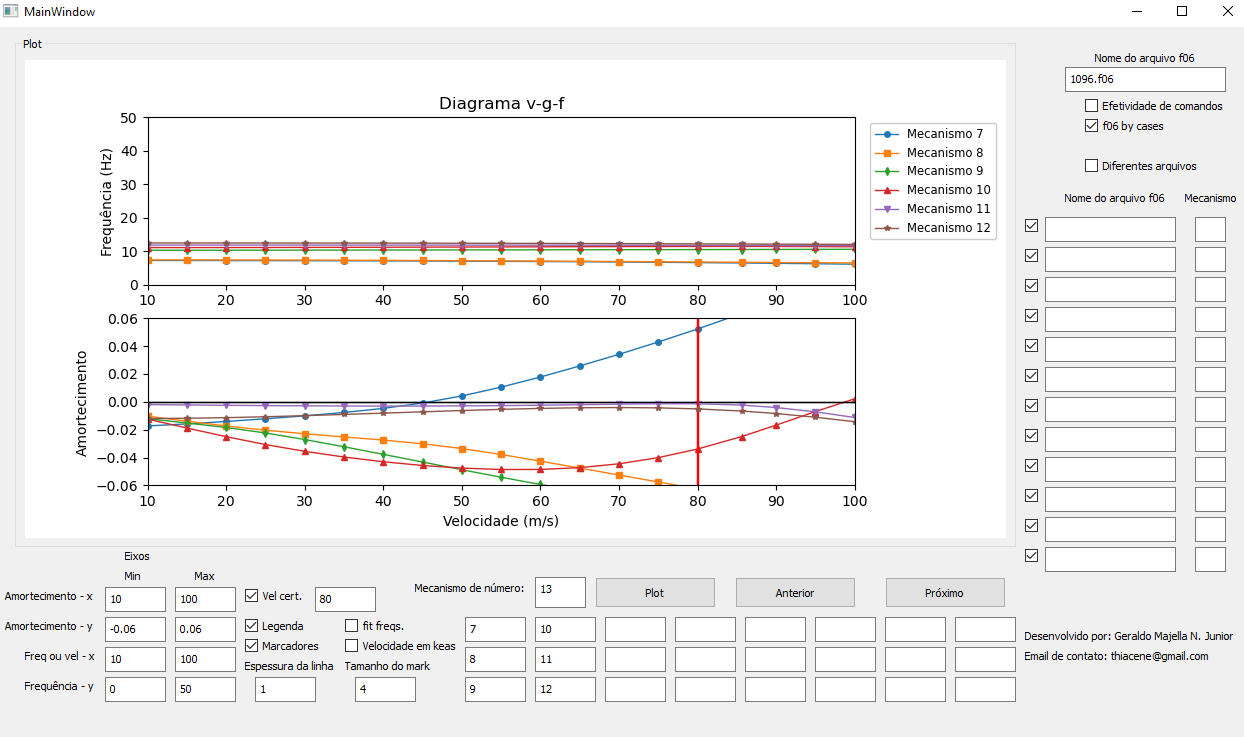
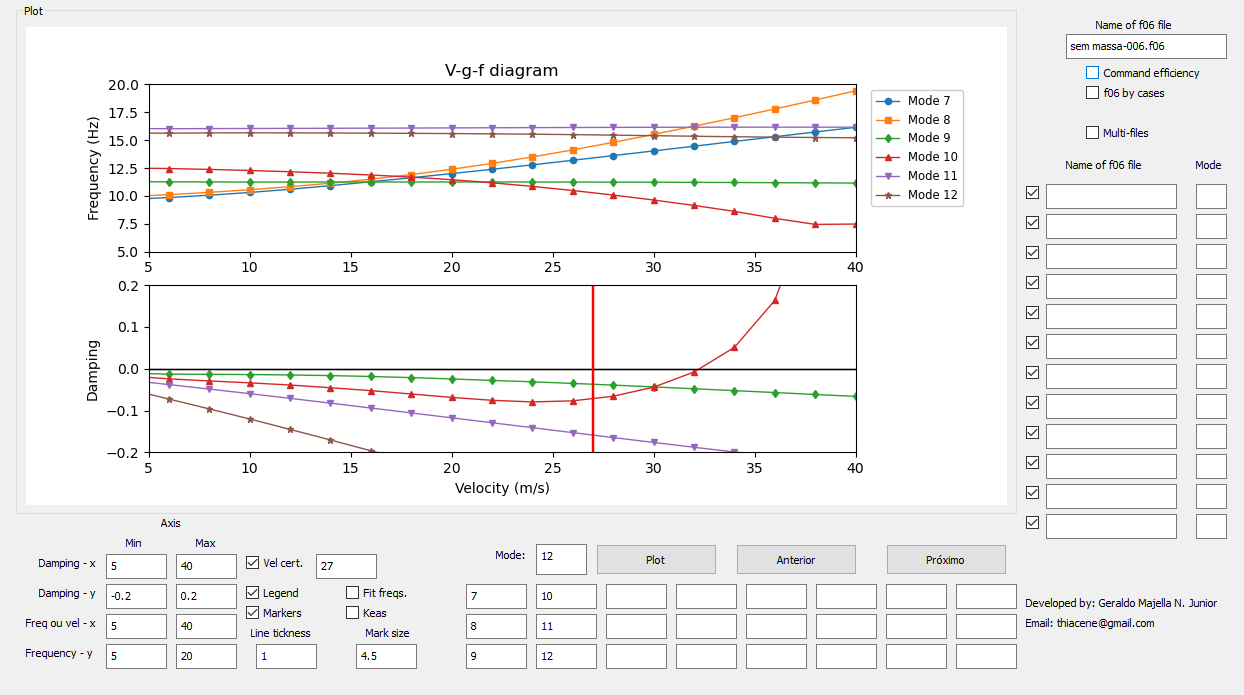
Add files via upload

diff --git a/f06flutter.py b/f06flutter.py
@@ -51,10 +51,10 @@ class Ui_MainWindow(object):
         self.textEdit_32.setMaximumSize(QtCore.QSize(16777215, 35))
         self.textEdit_32.setObjectName("textEdit_32")
         self.label_14 = QtWidgets.QLabel(self.centralwidget)
-        self.label_14.setGeometry(QtCore.QRect(10, 560, 91, 16))
+        self.label_14.setGeometry(QtCore.QRect(43, 560, 91, 16))
         self.label_14.setObjectName("label_14")
         self.label_15 = QtWidgets.QLabel(self.centralwidget)
-        self.label_15.setGeometry(QtCore.QRect(10, 590, 91, 16))
+        self.label_15.setGeometry(QtCore.QRect(43, 590, 91, 16))
         self.label_15.setObjectName("label_15")
         self.label_16 = QtWidgets.QLabel(self.centralwidget)
         self.label_16.setGeometry(QtCore.QRect(130, 540, 61, 16))
@@ -169,7 +169,7 @@ class Ui_MainWindow(object):
         self.textEdit_45.setMaximumSize(QtCore.QSize(16777215, 35))
         self.textEdit_45.setObjectName("textEdit_45")
         self.label_26 = QtWidgets.QLabel(self.centralwidget)
-        self.label_26.setGeometry(QtCore.QRect(250, 630, 91, 16))
+        self.label_26.setGeometry(QtCore.QRect(255, 630, 91, 16))
         self.label_26.setObjectName("label_26")
         self.textEdit_axismax_9 = QtWidgets.QTextEdit(self.centralwidget)
         self.textEdit_axismax_9.setGeometry(QtCore.QRect(680, 650, 61, 25))
@@ -204,10 +204,10 @@ class Ui_MainWindow(object):
         self.textEdit_axismin_12.setMaximumSize(QtCore.QSize(16777215, 35))
         self.textEdit_axismin_12.setObjectName("textEdit_axismin_12")
         self.label_27 = QtWidgets.QLabel(self.centralwidget)
-        self.label_27.setGeometry(QtCore.QRect(420, 550, 111, 20))
+        self.label_27.setGeometry(QtCore.QRect(500, 550, 111, 20))
         self.label_27.setObjectName("label_27")
         self.label_28 = QtWidgets.QLabel(self.centralwidget)
-        self.label_28.setGeometry(QtCore.QRect(130, 520, 91, 16))
+        self.label_28.setGeometry(QtCore.QRect(165, 520, 91, 16))
         self.label_28.setObjectName("label_28")
         self.textEdit_46 = QtWidgets.QTextEdit(self.centralwidget)
         self.textEdit_46.setGeometry(QtCore.QRect(320, 560, 61, 25))
@@ -265,7 +265,7 @@ class Ui_MainWindow(object):
         self.label_30.setGeometry(QtCore.QRect(1070, 160, 111, 20))
         self.label_30.setObjectName("label_30")
         self.label_31 = QtWidgets.QLabel(self.centralwidget)
-        self.label_31.setGeometry(QtCore.QRect(1190, 160, 51, 20))
+        self.label_31.setGeometry(QtCore.QRect(1200, 160, 51, 20))
         self.label_31.setObjectName("label_31")
         self.textEdit_axismax_25 = QtWidgets.QTextEdit(self.centralwidget)
         self.textEdit_axismax_25.setGeometry(QtCore.QRect(1070, 40, 161, 25))
@@ -330,7 +330,7 @@ class Ui_MainWindow(object):
         self.textEdit_47.setMaximumSize(QtCore.QSize(16777215, 35))
         self.textEdit_47.setObjectName("textEdit_47")
         self.label_32 = QtWidgets.QLabel(self.centralwidget)
-        self.label_32.setGeometry(QtCore.QRect(350, 630, 91, 16))
+        self.label_32.setGeometry(QtCore.QRect(370, 630, 91, 16))
         self.label_32.setObjectName("label_32")
         self.checkBox_4 = QtWidgets.QCheckBox(self.centralwidget)
         self.checkBox_4.setGeometry(QtCore.QRect(250, 560, 70, 17))
@@ -563,30 +563,30 @@ class Ui_MainWindow(object):
         self.pushButton_input.setText(_translate("MainWindow", "Plot"))
         self.pushButton_ana.setText(_translate("MainWindow", "Anterior"))
         self.pushButton_plot.setText(_translate("MainWindow", "Próximo"))
-        self.label_14.setText(_translate("MainWindow", "Amortecimento - x"))
-        self.label_15.setText(_translate("MainWindow", "Amortecimento - y"))
+        self.label_14.setText(_translate("MainWindow", "Damping - x"))
+        self.label_15.setText(_translate("MainWindow", "Damping - y"))
         self.label_16.setText(_translate("MainWindow", "Min"))
         self.label_17.setText(_translate("MainWindow", "Max"))
-        self.checkBox.setText(_translate("MainWindow", "Legenda"))
+        self.checkBox.setText(_translate("MainWindow", "Legend"))
         self.label_24.setText(_translate("MainWindow", "Freq ou vel - x"))
-        self.label_25.setText(_translate("MainWindow", "Frequência - y"))
+        self.label_25.setText(_translate("MainWindow", "Frequency - y"))
         self.groupBox.setTitle(_translate("MainWindow", "Plot"))
-        self.checkBox_2.setText(_translate("MainWindow", "Marcadores"))
-        self.label_26.setText(_translate("MainWindow", "Espessura da linha"))
-        self.label_27.setText(_translate("MainWindow", "Mecanismo de número:"))
-        self.label_28.setText(_translate("MainWindow", "Eixos"))
-        self.label_30.setText(_translate("MainWindow", "Nome do arquivo f06"))
-        self.label_31.setText(_translate("MainWindow", "Mecanismo"))
-        self.label_33.setText(_translate("MainWindow", "Nome do arquivo f06"))
-        self.checkBox_3.setText(_translate("MainWindow", "Diferentes arquivos"))
-        self.label_32.setText(_translate("MainWindow", "Tamanho do mark"))
+        self.checkBox_2.setText(_translate("MainWindow", "Markers"))
+        self.label_26.setText(_translate("MainWindow", "Line tickness"))
+        self.label_27.setText(_translate("MainWindow", "Mode:"))
+        self.label_28.setText(_translate("MainWindow", "Axis"))
+        self.label_30.setText(_translate("MainWindow", "Name of f06 file"))
+        self.label_31.setText(_translate("MainWindow", "Mode"))
+        self.label_33.setText(_translate("MainWindow", "Name of f06 file"))
+        self.checkBox_3.setText(_translate("MainWindow", "Multi-files"))
+        self.label_32.setText(_translate("MainWindow", "Mark size"))
         self.checkBox_4.setText(_translate("MainWindow", "Vel cert."))
-        self.checkBox_5.setText(_translate("MainWindow", "fit freqs."))
-        self.checkBox_6.setText(_translate("MainWindow", "Velocidade em keas"))
-        self.checkBox_8.setText(_translate("MainWindow", "Efetividade de comandos"))
+        self.checkBox_5.setText(_translate("MainWindow", "Fit freqs."))
+        self.checkBox_6.setText(_translate("MainWindow", "Keas"))
+        self.checkBox_8.setText(_translate("MainWindow", "Command efficiency"))
         self.checkBox_7.setText(_translate("MainWindow", "f06 by cases"))
-        self.label_29.setText(_translate("MainWindow", "Desenvolvido por: Geraldo Majella N. Junior"))
-        self.label_58.setText(_translate("MainWindow", "Email de contato: thiacene@gmail.com"))
+        self.label_29.setText(_translate("MainWindow", "Developed by: Geraldo Majella N. Junior"))
+        self.label_58.setText(_translate("MainWindow", "Email: thiacene@gmail.com"))
 
 
 
@@ -660,11 +660,11 @@ class Ui_MainWindow(object):
                 eff[i]=eff[i]*100
             self.ax.plot(vel, eff, color ='black', marker='^')
 
-        self.ax.set_title('Eficiência de comandos')
+        self.ax.set_title('Command efficiency')
         self.ax.set_xlim(left=0,right=None)
         self.ax.set_ylim(0,100)
-        self.ax.set_xlabel('Velocidade (m/s)')
-        self.ax.set_ylabel('Eficiência (%)')
+        self.ax.set_xlabel('Velocity (m/s)')
+        self.ax.set_ylabel('Efficiency (%)')
         self.ax.set_xlim(self.freqminX,self.freqmaxX)
 
         if self.velo != 0:
@@ -1221,8 +1221,8 @@ class Ui_MainWindow(object):
                     self.ax.set_position([box1.x0, box1.y0, box1.width * 0.93, box1.height])
 
                 #self.ax.set_xlabel('Velocidade (m/s)')
-                self.ax.set_ylabel('Frequência (Hz)')
-                self.ax.set_title('Diagrama v-g-f')
+                self.ax.set_ylabel('Frequency (Hz)')
+                self.ax.set_title('V-g-f diagram')
                 
                 if self.legend != 0:
                     self.ax.legend(loc='upper left',fontsize = 'small', framealpha =1, bbox_to_anchor=(1.014, 1),fancybox=True)
@@ -1244,10 +1244,10 @@ class Ui_MainWindow(object):
                 if i<1:
                     self.ax2.set_position([box2.x0, box2.y0, box2.width * 0.93, box2.height])
                 if self.keas==0:
-                    self.ax2.set_xlabel('Velocidade (m/s)')
+                    self.ax2.set_xlabel('Velocity (m/s)')
                 else:
-                    self.ax2.set_xlabel('Velocidade (keas)')
-                self.ax2.set_ylabel('Amortecimento')
+                    self.ax2.set_xlabel('Velocity (keas)')
+                self.ax2.set_ylabel('Damping')
             self.fig_canvas.draw()
 
         except:
@@ -1294,17 +1294,17 @@ class Ui_MainWindow(object):
                 else: 
                     pl = self.x
                 if self.keas == 0:
-                    self.ax.plot(self.vel[pl],self.freq[pl],marker=ssymbols, markersize=markk, linewidth=self.tickness,label=('Mecanismo'+' '+str(self.x-1)))
+                    self.ax.plot(self.vel[pl],self.freq[pl],marker=ssymbols, markersize=markk, linewidth=self.tickness,label=('Mode'+' '+str(self.x-1)))
                 else:
-                    self.ax.plot(self.vel2[pl],self.freq[pl],marker=ssymbols, markersize=markk, linewidth=self.tickness,label=('Mecanismo'+' '+str(self.x-1)))
+                    self.ax.plot(self.vel2[pl],self.freq[pl],marker=ssymbols, markersize=markk, linewidth=self.tickness,label=('Mode'+' '+str(self.x-1)))
                 self.ax.set_xlim(self.freqminX,self.freqmaxX)
                 self.ax.set_ylim(self.freqminY,self.freqmaxY)
                 if i<1:
                     self.ax.set_position([box1.x0, box1.y0, box1.width * 0.93, box1.height])
 
                 #self.ax.set_xlabel('Velocidade (m/s)')
-                self.ax.set_ylabel('Frequência (Hz)')
-                self.ax.set_title('Diagrama v-g-f')
+                self.ax.set_ylabel('Frequency (Hz)')
+                self.ax.set_title('V-g-f diagram')
                 
                 if self.legend != 0:
                     self.ax.legend(loc='upper left',fontsize = 'small', framealpha =1, bbox_to_anchor=(1.014, 1),fancybox=True)
@@ -1326,10 +1326,10 @@ class Ui_MainWindow(object):
                     self.ax2.set_position([box2.x0, box2.y0, box2.width * 0.93, box2.height])
 
                 if self.keas==0:
-                    self.ax2.set_xlabel('Velocidade (m/s)')
+                    self.ax2.set_xlabel('Velocity (m/s)')
                 else:
-                    self.ax2.set_xlabel('Velocidade (keas)')
-                self.ax2.set_ylabel('Amortecimento')
+                    self.ax2.set_xlabel('Velocity (keas)')
+                self.ax2.set_ylabel('Damping')
                 if g==1: self.x=self.x+1
                 else: pass
 
